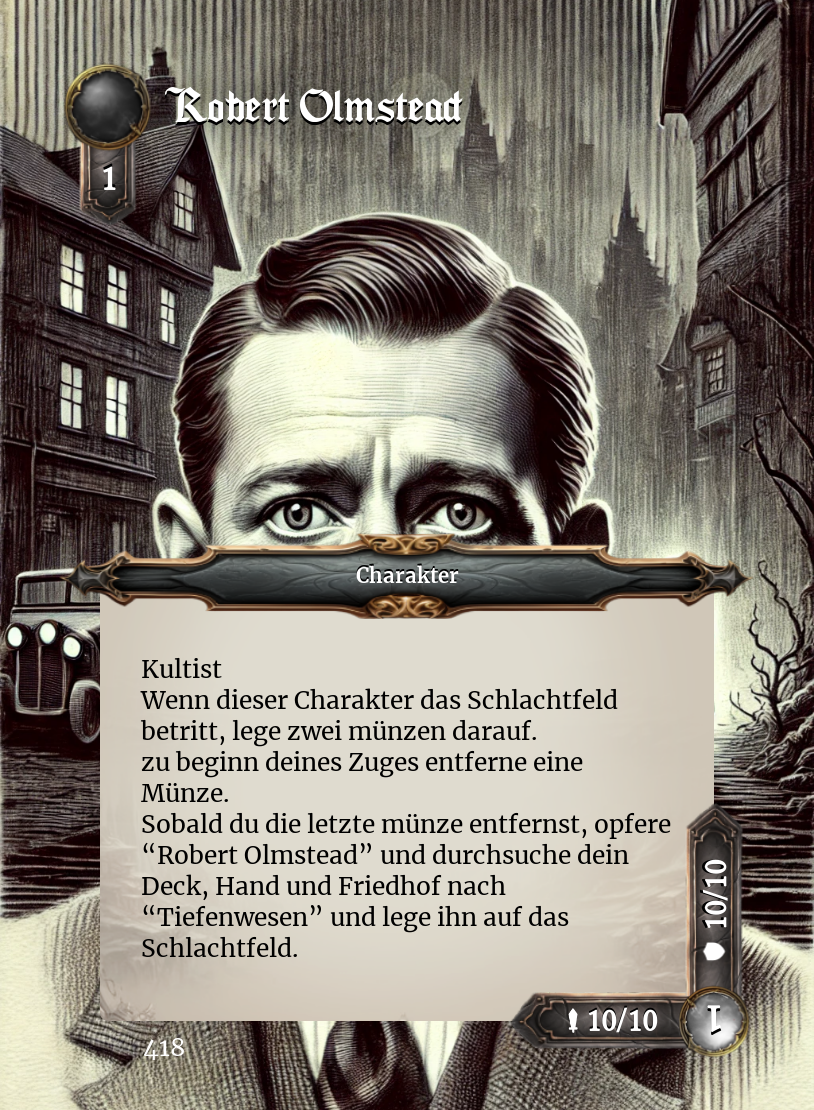
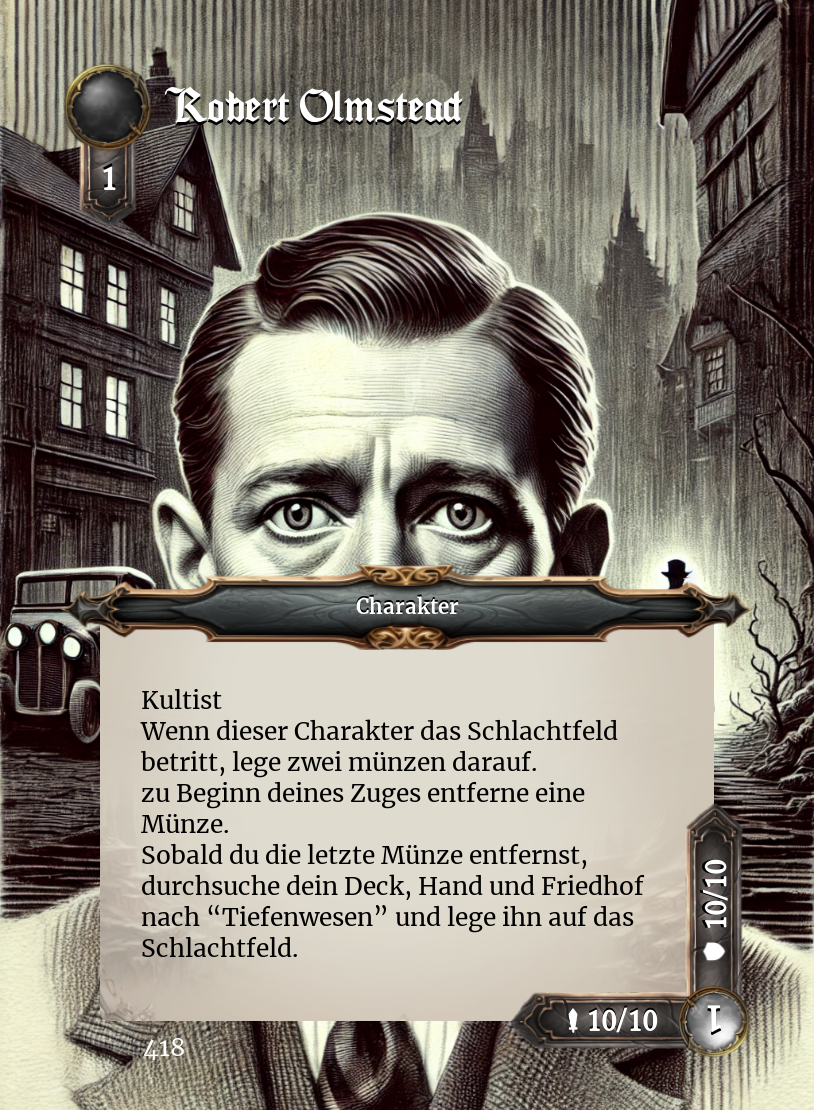
Card changes

Changed region(s): [[0.0614, 0.4595, 0.9214, 0.8577]]

diff --git a/output/html/441.html b/output/html/441.html
@@ -701,8 +701,8 @@ element.Magica::after {
                     <div>Manifestation</div>
                 </div>
                 <div class="entity-type"></div>
-                <div class="description">Am ende deines Zuges wirf eine Münze, bei Kopf durchsuche dein Deck nach einem Tiefenwesen und nimm sie auf die Hand.
-Befindet sich in denen Deck kein Tiefenwesen, darfst du auch dein Friedhof durchsuchen.</div>
+                <div class="description">Am Ende deines Zuges wirf eine Münze, bei Kopf durchsuche dein Deck nach einem Tiefenwesen und nimm sie auf die Hand.
+Befindet sich in deinem Deck kein Tiefenwesen, darfst du auch deinen Friedhof durchsuchen.</div>
                 <div class="flavour-text"></div>
                 <div class="combat-stats">
                     <div class="shieldspell"><img src="../../input/layout/combat_stats_shieldspell_symbol.png" class="combat-stats-symbol" />&nbsp;</div>

diff --git a/output/html/432.html b/output/html/432.html
@@ -702,8 +702,8 @@ element.Magica::after {
                 </div>
                 <div class="entity-type"></div>
                 <div class="description">Monster
-Wenn dieser Charakter das Schlachtfeld betritt, durchsuche dein Deck nach der Manifestation “sag niemals ihren Namen” und nimm sie auf die Hand.</div>
-                <div class="flavour-text"></div>
+Wenn dieser Charakter das Schlachtfeld betritt, erhalte eine zufällige Manifestation aus deinem Deck auf die Hand.</div>
+                <div class="flavour-text">Sag niemals ihren Namen.</div>
                 <div class="combat-stats">
                     <div class="offensive"><img src="../../input/layout/combat_stats_offensive_symbol.png" class="combat-stats-symbol" />&nbsp;5/5</div>
                     <div class="defensive"><img src="../../input/layout/combat_stats_defensive_symbol.png" class="combat-stats-symbol" />&nbsp;5/5</div>

diff --git a/output/html/418.html b/output/html/418.html
@@ -703,8 +703,8 @@ element.Magica::after {
                 <div class="entity-type"></div>
                 <div class="description">Kultist
 Wenn dieser Charakter das Schlachtfeld betritt, lege zwei münzen darauf.
-zu beginn deines Zuges entferne eine Münze.
-Sobald du die letzte münze entfernst, opfere “Robert Olmstead” und durchsuche dein Deck, Hand und Friedhof nach “Tiefenwesen” und lege ihn auf das Schlachtfeld.</div>
+zu Beginn deines Zuges entferne eine Münze.
+Sobald du die letzte Münze entfernst, durchsuche dein Deck, Hand und Friedhof nach “Tiefenwesen” und lege ihn auf das Schlachtfeld.</div>
                 <div class="flavour-text"></div>
                 <div class="combat-stats">
                     <div class="offensive"><img src="../../input/layout/combat_stats_offensive_symbol.png" class="combat-stats-symbol" />&nbsp;10/10</div>

diff --git a/output/html/417.html b/output/html/417.html
@@ -703,7 +703,7 @@ element.Magica::after {
                 <div class="entity-type"></div>
                 <div class="description">Kultist
 Einzigartig
-Wenn dieser Charakter das Schlachtfeld betritt übernimm die kontrolle über einen Charakter, lege “Joseph Curwen”  unter diese Karte. Stirbt der Charakter werden beide Karten in den Friedhof ihres Besitzers gelegt.</div>
+Wenn dieser Charakter das Schlachtfeld betritt übernimm die Kontrolle über einen Charakter, lege “Joseph Curwen”  unter diese Karte. Stirbt der Charakter werden beide Karten in den Friedhof ihres Besitzers gelegt.</div>
                 <div class="flavour-text"></div>
                 <div class="combat-stats">
                     <div class="offensive"><img src="../../input/layout/combat_stats_offensive_symbol.png" class="combat-stats-symbol" />&nbsp;-/-</div>

diff --git a/output/html/430.html b/output/html/430.html
@@ -702,7 +702,7 @@ element.Magica::after {
                 </div>
                 <div class="entity-type"></div>
                 <div class="description">Monster
-Wen dieser Charakter das Schlachtfeld betritt übernimm die Kontrolle eines Charakters, den du nicht kontrollierst bis zum ende des Zuges. Der Charakter erhält eile und darf nur Charaktere angreifen.</div>
+Wenn dieser Charakter das Schlachtfeld betritt übernimm die Kontrolle eines Charakters, den du nicht kontrollierst bis zum Ende des Zuges. Der Charakter erhält Eile und darf nur Charaktere angreifen.</div>
                 <div class="flavour-text"></div>
                 <div class="combat-stats">
                     <div class="offensive"><img src="../../input/layout/combat_stats_offensive_symbol.png" class="combat-stats-symbol" />&nbsp;5/5</div>

diff --git a/output/html/434.html b/output/html/434.html
@@ -5,7 +5,7 @@
     <meta charset="UTF-8">
     <!-- A card measures 63mm x 88mm -->
     <meta name="viewport" content="width=814, height=1110, initial-scale=1.0">
-    <title>Der König im Gelben Manuskribt</title>
+    <title>Manuskript - Der König in Gelb</title>
 
     <link rel="stylesheet" href="../../input/html/style.css">
     <style>
@@ -651,7 +651,7 @@ element.Magica::after {
         <div class="safe-area-preview"></div>
         <div class="safe-area top">
             <div class="titles">
-                <div class="title">Der König im Gelben Manuskribt</div>
+                <div class="title">Manuskript - Der König in Gelb</div>
                 <div class="subtitle"></div>
             </div>
             <div class="cost-list">

diff --git a/output/html/433.html b/output/html/433.html
@@ -703,8 +703,8 @@ element.Magica::after {
                 <div class="entity-type"></div>
                 <div class="description">Old One
 Einzigartig
-Wenn dieser Charakter das Schlachtfeld betritt zerstöre eine Elementarkarte.
-Alle anderen Charaktere erhalten -10/-10</div>
+Alle anderen Charaktere erhalten -10/-10 solange sich die Farbe aus dem All auf dem Spielfeld befindet.
+Wenn dieser Charakter das Schlachtfeld betritt zerstöre eine Elementarkarte.</div>
                 <div class="flavour-text"></div>
                 <div class="combat-stats">
                     <div class="offensive"><img src="../../input/layout/combat_stats_offensive_symbol.png" class="combat-stats-symbol" />&nbsp;40/40</div>

diff --git a/output/html/420.html b/output/html/420.html
@@ -703,9 +703,10 @@ element.Magica::after {
                 <div class="entity-type"></div>
                 <div class="description">Old One
 Einzigartig
+Spielfeldzauber
 Diese Karte kann nicht zerstört werden.
 Alle Kultisten und Monster erhalten +10/+10.
-Wenn diese Karte das Schlachtfeld betritt werden alle Charaktere Wahninnig bis am ende des Zuges.</div>
+Wenn diese Karte das Schlachtfeld betritt erhalten alle Charaktere Wahnsinn bis am Ende des Zuges.</div>
                 <div class="flavour-text"></div>
                 <div class="combat-stats">
                     <div class="offensive"><img src="../../input/layout/combat_stats_offensive_symbol.png" class="combat-stats-symbol" />&nbsp;-/-</div>

diff --git a/output/html/444.html b/output/html/444.html
@@ -701,7 +701,7 @@ element.Magica::after {
                     <div>Manifestation</div>
                 </div>
                 <div class="entity-type"></div>
-                <div class="description">Kann nicht als Elementar gelegt werden, Kann nicht beschworen werden, Verhöhnen, 2 mal Bannkreis</div>
+                <div class="description">Kann nicht als Elementar gelegt werden, Kann nicht beschworen werden, Verhöhnen, 3 mal Bannkreis</div>
                 <div class="flavour-text"></div>
                 <div class="combat-stats">
                     <div class="shieldspell"><img src="../../input/layout/combat_stats_shieldspell_symbol.png" class="combat-stats-symbol" />&nbsp;2</div>

diff --git a/output/html/410.html b/output/html/410.html
@@ -702,8 +702,8 @@ element.Magica::after {
                 </div>
                 <div class="entity-type"></div>
                 <div class="description">Kultist
-Einzigartig
-Durchsuche dein Deck oder Friedhof nach der Karte “Pickmans Modell” und nimm sie auf die Hand.</div>
+Einzigartig 
+Wenn dieser Charakter das Schlachtfeld betritt durchsuche dein Deck oder Friedhof nach der Karte “Pickmans Modell” und nimm sie auf die Hand.</div>
                 <div class="flavour-text"></div>
                 <div class="combat-stats">
                     <div class="offensive"><img src="../../input/layout/combat_stats_offensive_symbol.png" class="combat-stats-symbol" />&nbsp;30/30</div>

diff --git a/output/html/447.html b/output/html/447.html
@@ -702,7 +702,8 @@ element.Magica::after {
                 </div>
                 <div class="entity-type"></div>
                 <div class="description">Kann nicht zerstört werden.
-Wenn diese Manifestation das Schlachtfeld betritt, zerstöre eine zufällige Elementarkarte eines Gegners.</div>
+Wenn diese Manifestation das Schlachtfeld betritt, zerstöre eine zufällige Elementarkarte eines Gegners.
+Alle Charaktere erhalten -5/0.</div>
                 <div class="flavour-text"></div>
                 <div class="combat-stats">
                     <div class="shieldspell"><img src="../../input/layout/combat_stats_shieldspell_symbol.png" class="combat-stats-symbol" />&nbsp;</div>

diff --git a/output/html/446.html b/output/html/446.html
@@ -701,7 +701,7 @@ element.Magica::after {
                     <div>Manifestation</div>
                 </div>
                 <div class="entity-type"></div>
-                <div class="description">Wirf am Ende deines Zuges eine Münze. Wende bei Kopf TODO Magiemanipulation Ereignis an.</div>
+                <div class="description">Wirf am Ende deines Zuges eine Münze. Bei Kopf erhalte ein Ereignis aus dem Deck auf die Hand.</div>
                 <div class="flavour-text"></div>
                 <div class="combat-stats">
                     <div class="shieldspell"><img src="../../input/layout/combat_stats_shieldspell_symbol.png" class="combat-stats-symbol" />&nbsp;</div>
